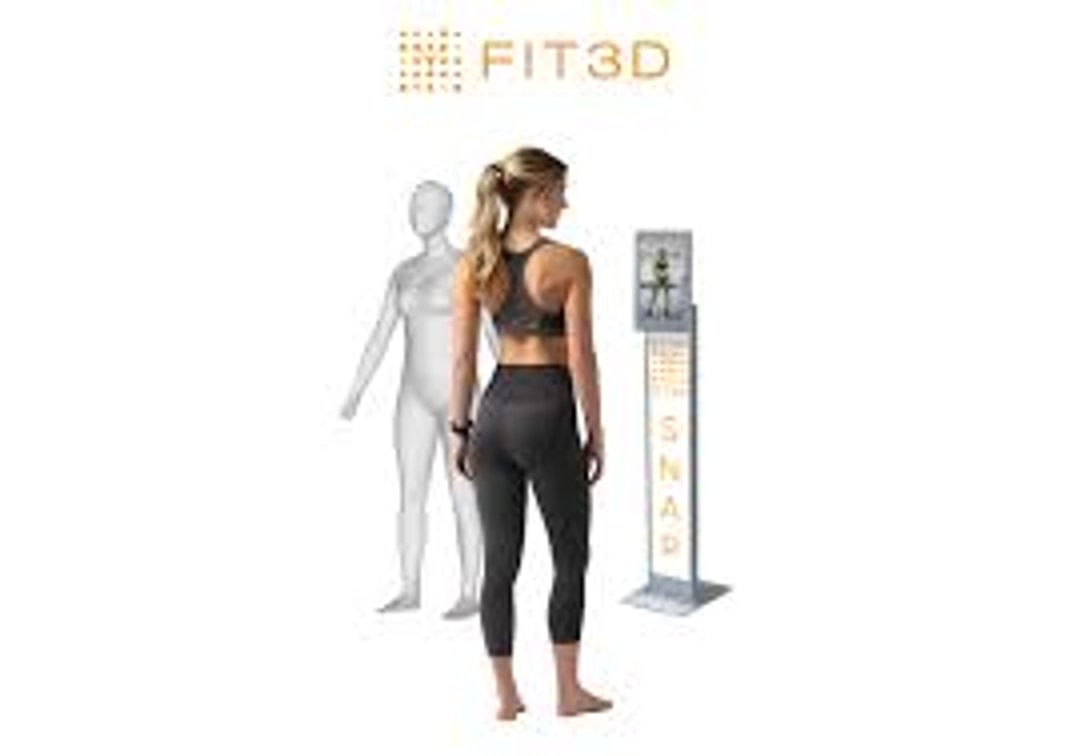
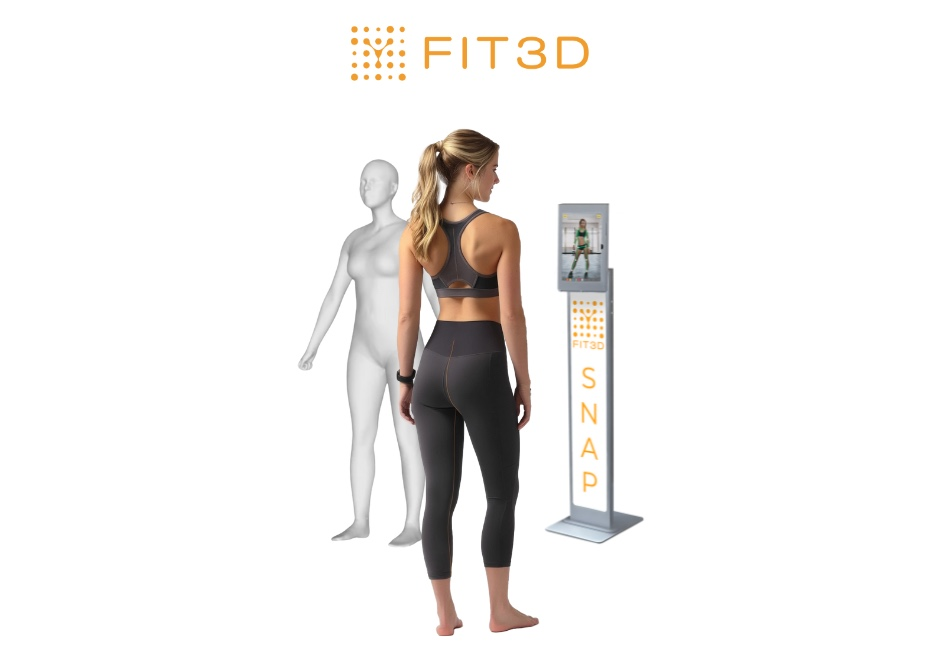
Set Fit3D SNAP cover as the homepage 3D Body Scan service card image.

diff --git a/lib/images.ts b/lib/images.ts
@@ -99,12 +99,12 @@ export const images = {
     description: "GLP-3 Peptides — supporting clinical preparation detail",
   },
   "service-body-composition-snap": {
-    src: "/images/fit3d/scanning-2x.png",
-    alt: "Person completing a SNAP by Fit3D body scan with the measurement app overlay visible",
-    width: 1160,
-    height: 1058,
+    src: "/images/fit3d/snap-cover.png",
+    alt: "SNAP by Fit3D scanning station with 3D body avatar",
+    width: 940,
+    height: 667,
     description:
-      "3D Body Scan — Fit3D scanning photo (home service card)",
+      "3D Body Scan — Fit3D SNAP cover photo (home service card)",
   },
   "service-body-composition-1": {
     src: "/images/service-body-composition-1.png",

diff --git a/public/images/fit3d/README.md b/public/images/fit3d/README.md
@@ -2,11 +2,12 @@
 
 Referenced from `FIT3D_MEDIA` in `lib/fit3d.ts` and the image registry in `lib/images.ts`.
 
+- `snap-cover.png` — Fit3D SNAP cover (homepage 3D Body Scan service card)
 - `scanning.jpg` — original mid-scan photo (native resolution)
-- `scanning-2x.png` — 2× lanczos upscale used for hero / service card display
+- `scanning-2x.png` — 2× lanczos upscale used for body-composition hero
 - `before.png` — avatar with red metric callouts
 - `after.png` — avatar with green metric callouts
-- `snap-station.jpg` — SNAP station product shot (low-res source; prefer scanning-2x for UI)
+- `snap-station.jpg` — JPEG of the SNAP cover (same art as snap-cover)
 
 Still placeholder: the "Powered by Fit3D" logo mark. Drop `fit3d-logo.svg` here and
 point `FIT3D_MEDIA.logo` at it when the final asset is available.
